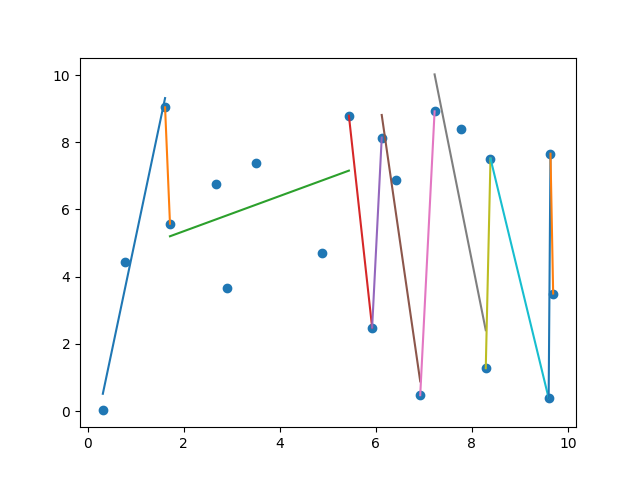
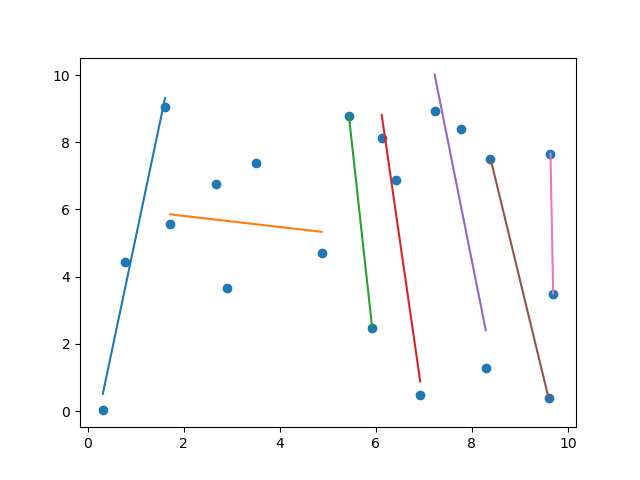
Corrected mistakes.Need to redo images

diff --git a/plot.py b/plot.py
@@ -21,11 +21,7 @@ if __name__=='__main__':
 		len=0
 		for segment in reversed(segmentsFile.readlines()):
 			# print(line)
-			if(len==0):
-				segments.append((int)(segment.split(" ")[0]))
-				segments.append((int)(segment.split(" ")[1]))
-				len+=1
-				continue
+			segments.append((int)(segment.split(" ")[0]))
 			segments.append((int)(segment.split(" ")[1]))
 			len+=1
 		print(segments)
@@ -40,10 +36,13 @@ if __name__=='__main__':
 			len+=1
 		print(lines)
 		plt.scatter(pointsXFull,pointsYFull)
-		for i in range(segments.__len__()-1):
-			print(pointsXFull[segments[i]-1]),
-			print(pointsXFull[segments[i+1]-1])
-			plt.plot([pointsXFull[segments[i]-1],pointsXFull[segments[i+1]-1]],[pointsXFull[segments[i]-1]*lines[i][1]+lines[i][0],pointsXFull[segments[i+1]-1]*lines[i][1]+lines[i][0]])
+		for i in range(lines.__len__()):
+			print(segments.__len__())
+			print(segments[2*i]-1)
+			print(segments[2*i+1]-1)
+			print(pointsXFull[segments[2*i]-1]),
+			print(pointsXFull[segments[2*i+1]-1])
+			plt.plot([pointsXFull[segments[2*i]-1],pointsXFull[segments[2*i+1]-1]],[pointsXFull[segments[2*i]-1]*lines[i][1]+lines[i][0],pointsXFull[segments[2*i+1]-1]*lines[i][1]+lines[i][0]])
 		# plt.show()
 		plt.savefig(os.getcwd()+'/images/SLSoutput'+str(num)+'c:'+str('%.6f'%cval)+'.png')
 		plt.clf()

diff --git a/main.cpp b/main.cpp
@@ -60,12 +60,15 @@ void SegementedLeastSquares(std::vector<Point> points,double C)
 	tempIndex=num_points;
 	while(tempIndex!=1)
 	{
+		cout<<tempIndex<<" "<<startIndex[tempIndex]<<endl;
 		output<<startIndex[tempIndex]<<" "<<tempIndex<<"\n";
 		size=tempIndex-startIndex[tempIndex]+1;
 		beta=functionsAPI.getBeta(points,startIndex[tempIndex]-1,size);
 		alpha=functionsAPI.getAlpha(points,startIndex[tempIndex]-1,size,beta);
 		output2<<alpha<<" "<<beta<<"\n";
-		tempIndex=startIndex[tempIndex];
+		if(startIndex[tempIndex]==1)
+			break;
+		tempIndex=startIndex[tempIndex]-1;
 	}
 		
 }

diff --git a/README.md b/README.md
@@ -1,1 +1,4 @@
 # Segmented_Least_Squares
+
+Run Using:
+g++ main.cpp Point.cpp PointsOps.cpp Functions.cpp 
